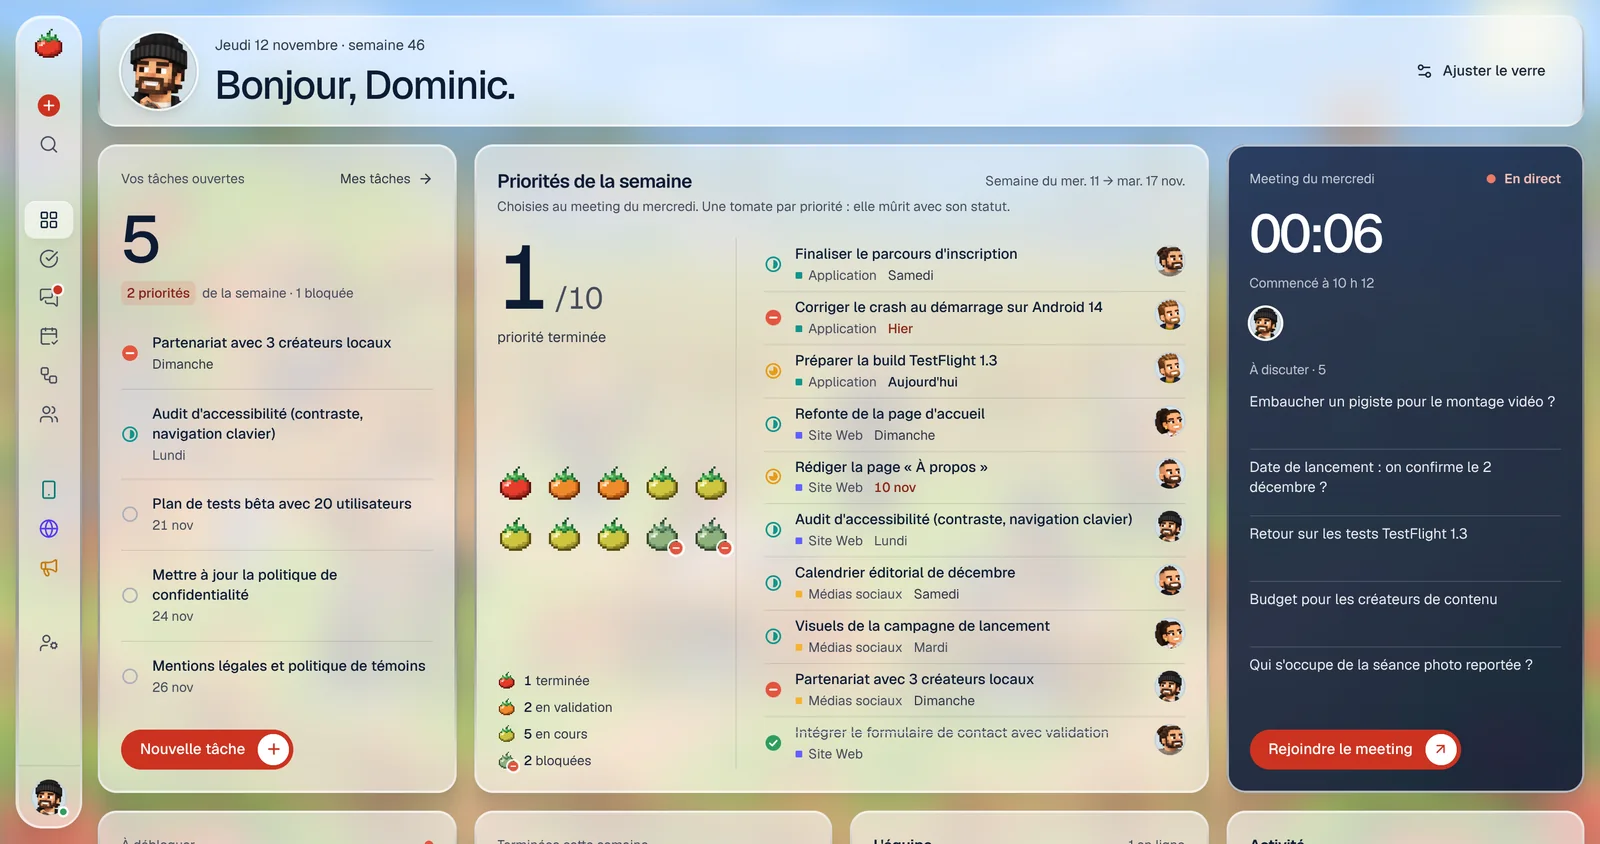
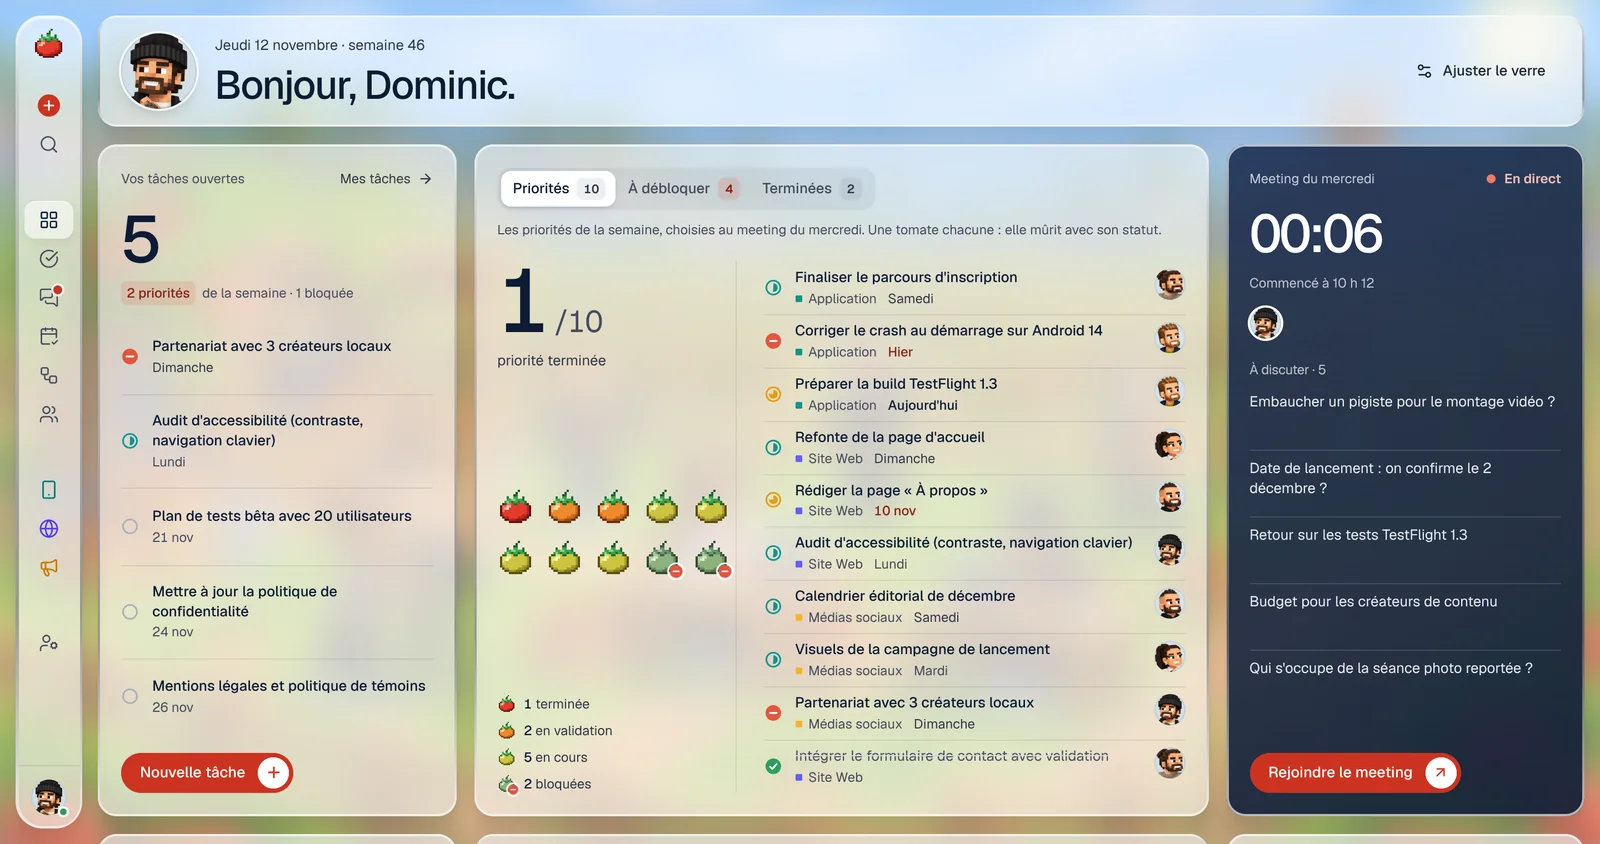
Docs: the week in three tabs, the projects stacked; screenshots retaken
The design document follows the dashboard as it now is: the main tile and its
three views, the row of faces, stacked projects and activity. One picture
added for the two other views of the week. The README follows, with the 45
scenarios.

Claude-Session: https://claude.ai/code/session_01FogaosSJpqDW3pFqCh4GHN

diff --git a/docs/DESIGN.md b/docs/DESIGN.md
@@ -38,25 +38,30 @@ Au repos, la navigation est un rail d'icônes : le contenu a toute la place. On 
 
 ### Dashboard — « où en est-on ? »
 
-Un bento de tuiles de verre posées **directement sur l'image** : pas de feuille derrière elles, jamais de verre sur du verre. Chaque tuile est le verre (son anneau, sa face claire, son ombre) ; la photo, givrée, se voit entre les tuiles comme à travers elles. Le bento occupe toute la zone à côté de la navigation et s'aligne sur elle : même haut, même bas, et le même écart de 14 px que la fenêtre des autres écrans. Sur un écran haut, la rangée des chiffres prend la place qui reste ; sur un écran plus court, le bento défile sous une navigation qui ne bouge pas.
+Un bento de tuiles de verre posées **directement sur l'image** : pas de feuille derrière elles, jamais de verre sur du verre. Chaque tuile est le verre (son anneau, sa face claire, son ombre) ; la photo, givrée, se voit entre les tuiles comme à travers elles. Le bento occupe toute la zone à côté de la navigation et s'aligne sur elle : même haut, même bas, et le même écart de 14 px que la fenêtre des autres écrans. Sur un écran haut, la dernière rangée prend la place qui reste ; sur un écran plus court, le bento défile sous une navigation qui ne bouge pas.
 
-**Chaque tuile a sa forme et sa façon de parler.** Un tableau de bord dont toutes les sections sont la même tuile contenant une liste se lit mal : rien n'y dit par où commencer. Ici, une tuile large au milieu, celle autour de laquelle la page est construite (les priorités de la semaine) ; à sa gauche mes tâches, à sa droite le meeting ; trois tuiles qui sont chacune un grand chiffre ; les visages de l'équipe ; une tuile haute sur le côté (l'activité) ; et une rangée de projets. Quatre colonnes à partir de 1280 px de place, deux en dessous, une sur téléphone.
+**Chaque tuile a sa forme et sa façon de parler.** Un tableau de bord dont toutes les sections sont la même tuile contenant une liste se lit mal : rien n'y dit par où commencer. Ici, trois colonnes de lecture : moi et l'équipe à gauche, la semaine et les projets au milieu (deux fois plus large), le meeting et l'activité à droite. Quatre colonnes de grille à partir de 1280 px de place, deux en dessous, une sur téléphone.
 
 Le bento reste régulier : les tuiles d'une rangée ont la même hauteur, les rangées se suivent sans trou, et aucune tuile n'est à moitié vide. Une tuile remplit la place qu'elle a avec son propre contenu : la liste des priorités donne sa hauteur à sa rangée, et les listes voisines montrent autant de lignes entières qu'il en tient (`.gw-fit`). Les lignes qui n'ont pas la place sont aussi hors du parcours clavier et des lecteurs d'écran.
 
 1. **Salutation** : sur toute la largeur, avec le portrait de la personne, la date et la semaine, et « Ajuster le verre ».
 2. **Vos tâches ouvertes** : un grand chiffre, ce qu'il contient (priorités, retards, blocages), les tâches à prendre en premier (priorités, puis retards, puis ce qui est en cours) et **Nouvelle tâche**, l'action principale de la page.
-3. **Priorités de la semaine** : le score en très grand (« 1/10 »), puis le **potager** : une tomate par priorité, qui mûrit avec son statut (verte à faire, tournante en cours, orangée en validation, rouge terminée ; pâlie et marquée du glyphe « bloqué » quand elle n'avance plus), rangées de la plus mûre à la plus verte, ce qui en fait aussi une barre d'avancement. Chaque tomate est un bouton qui ouvre sa tâche. À côté, la légende et la liste : statut (le glyphe se clique pour le changer), titre, projet, échéance, responsable. Changer un statut dans la liste fait mûrir la tomate.
-4. **Meeting du mercredi** : dans combien de jours, une règle de la semaine (les sept jours qui y mènent, aujourd'hui en tomate, le meeting au bout), les points à discuter, et l'entrée. Pendant un meeting la tuile devient **sombre** (le sombre veut dire « en direct », ici comme sur la page du meeting) et montre l'horloge ; ensuite, « Terminé » et le chemin du récapitulatif.
-5. **À débloquer** : le nombre de tâches bloquées ou en retard dans toute l'équipe (le seul chiffre en rouge de la page : c'est celui qui demande quelque chose), puis les premières, à un clic.
-6. **Terminées cette semaine** : le chiffre, celui de la semaine dernière, et une barre par semaine (de mercredi à mardi) sur six semaines ; la semaine en cours est en teal.
-7. **L'équipe** : un visage, un prénom, le nombre de tâches ouvertes ; un clic ouvre les tâches de la personne.
-8. **Activité** : qui a fait quoi, sur quelle tâche, et quand : un portrait, une phrase, l'heure. C'est la tuile haute sur le côté ; elle montre autant d'événements que sa hauteur le permet.
-9. **Projets** : une tuile par projet, toutes égales, avec son pourcentage et son anneau ; un clic ouvre le projet.
+3. **La semaine de l'équipe**, la tuile autour de laquelle la page est construite. Elle se regarde de trois façons, par **trois onglets** qui portent chacun leur compte (la page les dit donc sans un clic), et chaque vue mène avec son grand chiffre :
+   - **Priorités** : le score en très grand (« 1/10 »), puis le **potager** : une tomate par priorité, qui mûrit avec son statut (verte à faire, tournante en cours, orangée en validation, rouge terminée ; pâlie et marquée du glyphe « bloqué » quand elle n'avance plus), rangées de la plus mûre à la plus verte, ce qui en fait aussi une barre d'avancement. Chaque tomate est un bouton qui ouvre sa tâche. À côté, la légende et la liste : statut (le glyphe se clique pour le changer), titre, projet, échéance, responsable. Changer un statut dans la liste fait mûrir la tomate.
+   - **À débloquer** : le nombre de tâches bloquées ou en retard dans toute l'équipe (le seul chiffre en rouge de la page : c'est celui qui demande quelque chose), ce dont il est fait, et les tâches, à un clic.
+   - **Terminées** : le chiffre de la semaine, celui de la semaine dernière, une barre par semaine (de mercredi à mardi) sur six semaines, la semaine en cours en teal, et ce qui a été terminé.
 
-Les chiffres comptent depuis zéro quand leur tuile arrive, les tomates et les barres se posent l'une après l'autre, les anneaux se dessinent ; rien de tout cela ne bouge avec « moins de mouvement ». Ce que montrent ces dessins existe aussi en mots : chaque tomate porte le titre, le statut et le responsable de sa tâche, chaque barre son compte, chaque anneau « n tâches terminées sur m ».
+   Les trois vues sont posées l'une sur l'autre et une seule se voit : la tuile garde la hauteur de la plus haute, et la page ne saute pas quand on change d'onglet. Sur une tuile étroite (téléphone), elles se suivent. Ces deux dernières vues ont d'abord été des tuiles à part ; réunies ici, elles laissent la page plus calme sans rien retirer.
+4. **Meeting du mercredi** : dans combien de jours, une règle de la semaine (les sept jours qui y mènent, aujourd'hui en tomate, le meeting au bout), les points à discuter, et l'entrée. Pendant un meeting la tuile devient **sombre** (le sombre veut dire « en direct », ici comme sur la page du meeting) et montre l'horloge ; ensuite, « Terminé » et le chemin du récapitulatif.
+5. **L'équipe** : un visage, un prénom, le nombre de tâches ouvertes ; un clic ouvre les tâches de la personne.
+6. **Projets** : une tuile par projet, empilées sous la semaine, avec son pourcentage en grand et une longue barre : l'une sous l'autre, les barres se comparent d'un coup d'œil. Un clic ouvre le projet. Quand la fenêtre est plus étroite, les tuiles passent côte à côte et la barre devient un anneau.
+7. **Activité** : qui a fait quoi, sur quelle tâche, et quand : un portrait, une phrase, l'heure. Elle montre autant d'événements que sa hauteur le permet.
+
+Les chiffres comptent depuis zéro quand leur tuile arrive (et quand on change d'onglet), les tomates et les barres se posent l'une après l'autre, les barres des projets s'allongent ; rien de tout cela ne bouge avec « moins de mouvement ». Ce que montrent ces dessins existe aussi en mots : chaque tomate porte le titre, le statut et le responsable de sa tâche, chaque barre son compte, chaque projet « n tâches terminées sur m ». Les onglets sont de vrais onglets : les flèches passent de l'un à l'autre, et la vue qui n'est pas affichée est hors du parcours clavier et des lecteurs d'écran.
 
 ![Dashboard](screenshots/dashboard.webp)
+
+![Les deux autres vues de la semaine : à débloquer, terminées](screenshots/dashboard-onglets.webp)
 
 ![Le dashboard pendant un meeting : la tuile sombre et son horloge](screenshots/dashboard-en-direct.webp)
 
@@ -216,8 +221,8 @@ Règle technique : deux surfaces qui floutent ce qui est derrière elles ne s'em
 | Encre | `navy-900` | `#0D1B33` | Texte |
 | Gris | `navy-300` à `navy-600` | — | Texte secondaire, icônes, bordures. Peu saturés : le texte secondaire est gris, pas bleu. Sur le verre, le texte secondaire est en `navy-600` (voir « Encre sur verre »). |
 | Papier | `--background` | `#F2F0EB` | Sous les écrans d'erreur, et là où le flou n'est pas pris en charge |
-| Teal | `teal-500` | `#12948C` | L'avancement : la barre de la semaine en cours et les anneaux des projets, sur le dashboard |
-| Tomate | `tomato-600` | `#CC3320` | Le **bouton principal**, partout ; le repère « Nouvelle tâche » de la navigation ; la pastille des priorités de la semaine ; en `tomato-700`, le chiffre « À débloquer » du dashboard |
+| Teal | `teal-500` | `#12948C` | L'avancement : la barre de la semaine en cours et celles des projets, sur le dashboard |
+| Tomate | `tomato-600` | `#CC3320` | Le **bouton principal**, partout ; le repère « Nouvelle tâche » de la navigation ; la pastille des priorités de la semaine ; en `tomato-700`, le chiffre des tâches à débloquer du dashboard |
 | Statuts | teal, jaune, corail, vert | — | Uniquement dans les glyphes de statut, l'étoile des priorités et les alertes (retard, blocage) |
 
 Les couleurs d'identification restent discrètes : une petite icône au trait pour un projet ; pour un membre, son portrait, ou à défaut une pastille pâle avec ses initiales.
@@ -241,7 +246,6 @@ Geist Sans. Chiffres tabulaires pour les compteurs et les dates. Une échelle co
 | Pourcentage d'un projet | 34 – 46 px, 500 |
 | Salutation du dashboard | 26 – 36 px, 500 |
 | Titre du meeting | 22 – 26 px, 600 |
-| Titre de la tuile des priorités | 17 px, 600 |
 | Titre de page, de groupe | 15 px, 600 |
 | Corps, lignes de tâche, contrôles, titres de section | 13 px (14 px dans les formulaires) |
 | Métadonnées | 12 px |
@@ -257,9 +261,10 @@ Geist Sans. Chiffres tabulaires pour les compteurs et les dates. Une échelle co
 - **Avancement** : un filet de 3 px, encre sur gris, dans les listes ; une barre de 5 px, teal sur teal pâle, sur le dashboard (`kit/progress.tsx`).
 - **Grand chiffre** (`dashboard/figure.tsx`) : un par tuile, ce sur quoi l'œil se pose ; sa taille suit la largeur de la tuile (unités de conteneur), et il compte jusqu'à sa valeur.
 - **Potager** (`dashboard/potager.tsx`) : une tomate de 32 px par priorité, cinq par rangée ; au survol elle se soulève et dit son titre.
-- **Barres de la semaine** (`dashboard/weekly-done.tsx`) : six barres, la semaine en cours en teal, les autres en gris ; le compte posé sur chaque barre, la date dessous.
+- **Onglets de la semaine** (`dashboard/week-hero.tsx`) : un groupe de pastilles, l'onglet choisi en blanc ; chacun porte son compte, teinté de tomate quand quelque chose attend derrière.
+- **Barres de la semaine** (`dashboard/week-bars.tsx`) : six barres, la semaine en cours en teal, les autres en gris ; le compte posé sur chaque barre, la date dessous.
 - **Défilement** : seule la fenêtre principale défile.
-- **Mouvement** : les tuiles se posent l'une après l'autre (elles montent de 12 px et deviennent nettes, 480 ms, 45 ms d'écart) ; la coche et l'étoile « rebondissent » une fois ; la carte glissée se soulève ; un message se pose dans le fil. Sur le dashboard, les chiffres comptent depuis zéro (900 ms) quand leur tuile arrive, les tomates et les barres se posent l'une après l'autre, les anneaux se dessinent. Tout est neutralisé avec `prefers-reduced-motion`.
+- **Mouvement** : les tuiles se posent l'une après l'autre (elles montent de 12 px et deviennent nettes, 480 ms, 45 ms d'écart) ; la coche et l'étoile « rebondissent » une fois ; la carte glissée se soulève ; un message se pose dans le fil. Sur le dashboard, les chiffres comptent depuis zéro (900 ms) quand leur tuile arrive ou quand on change d'onglet, les tomates et les barres se posent l'une après l'autre, les barres des projets s'allongent. Tout est neutralisé avec `prefers-reduced-motion`.
 - **Averse de tomates** (`app/tomato-rain.tsx`) : une tâche terminée fait tomber de huit à dix-huit tomates du logo, selon la largeur de l'écran. La largeur est découpée en tranches et chaque tomate tombe dans la sienne : jamais d'amas. Trois tailles (20, 28, 36 px), les petites plus lentes, une légère dérive et une rotation. Elles ne prennent aucun clic, et jusqu'à trois averses se superposent quand on enchaîne.
 - **Arrivée et préchargeur** : à l'ouverture, la scène est seule à l'écran, nette ; ni navigation ni fenêtre. Par-dessus, une petite plaque de verre givré, haut dans le ciel pour ne cacher personne : la tomate y tombe, s'écrase, fait un salto (elle tourne autour d'elle-même, pas autour de sa base), puis alterne petit saut et salto tant que ça charge ; les sauts sont rythmés comme un vrai lancer (vite au départ, lent en haut). Elle reste au moins 3,25 s — la chute et deux tours de saut et de salto : le temps de regarder l'image. Puis la plaque s'en va, l'image reste et se givre (le flou et le voile arrivent en 900 ms), la navigation apparaît en fondu (500 ms) et les tuiles se posent l'une après l'autre. Tout est mesuré en « pixels de tomate » (7 px, 6 px sur téléphone), en CSS pur.
 
@@ -274,7 +279,7 @@ Geist Sans. Chiffres tabulaires pour les compteurs et les dates. Une échelle co
 | `components/auth` | `LoginScreen` (la scène et la carte), `LoginForm` (lien magique, mot de passe) |
 | `components/settings` | Paramètres des administrateurs : tableau des membres, invitation, rôles |
 | `components/tasks` | `TaskLine` (ligne compacte réutilisée partout), `TaskSheet`, menus contextuels, `QuickAdd` |
-| `components/dashboard` | `Panel` (une tuile de verre), `Figure` (le grand chiffre qui compte) et les tuiles : `MyWeek`, `WeekHero` et son `Potager`, `MeetingTile`, `AtRisk`, `WeeklyDone`, `TeamFaces`, `ProjectCards`, `ActivityFeed` |
+| `components/dashboard` | `Panel` (une tuile de verre), `Figure` (le grand chiffre qui compte) et les tuiles : `MyWeek`, `WeekHero` (la semaine en trois onglets, avec son `Potager` et ses `WeekBars`), `MeetingTile`, `TeamFaces`, `ProjectCards`, `ActivityFeed` |
 
 Règle de composition : une information = un composant, réutilisé partout. Le statut d'une tâche a la même apparence dans le tableau, le kanban, le dashboard et le meeting.
 
@@ -298,4 +303,4 @@ Plusieurs briques viennent de composants que l'équipe a choisis comme référen
 
 ### Accessibilité
 
-Navigation complète au clavier, focus visible (anneau teal), libellés pour les boutons-icônes, zones tactiles confortables sur mobile, états jamais portés par la couleur seule (glyphe + libellé). Le bouton de menu annonce son état (`aria-expanded`). La navigation ne dépend pas du survol : au clavier, le rail se parcourt tel quel (chaque entrée garde son nom, et son infobulle au focus) et la tomate, qui est alors un bouton, l'épingle ouverte ; sur un écran tactile, toucher la tomate fait de même. Le fil des messages est une région `log`, la saisie et chaque bouton ont un libellé, et l'averse de tomates est ignorée des lecteurs d'écran. Avec « moins de mouvement », la carte de connexion ne s'incline plus et ses lumières s'éteignent, la pastille de navigation et les infobulles apparaissent sans ressort, la navigation s'ouvre sans glisser, et aucune tomate ne tombe. L'avancement, les barres de la semaine, les anneaux et les tomates du potager ont un équivalent textuel. Sur du verre, le contraste dépend de l'image derrière : il est donc mesuré, pas déduit des couleurs du thème. Chaque morceau de texte est comparé aux pixels réellement derrière lui, sur une capture où le texte est rendu transparent, et c'est le pire endroit du mot qui compte (le 5e centile de ses pixels), pas sa moyenne. Avec les réglages par défaut, sur les huit écrans (623 morceaux de texte par scène), tout dépasse le seuil AA de 4,5:1. Sur la ferme : 8:1 et plus pour le texte principal, 5,2:1 au plus bas pour le texte secondaire. Sur le yacht, plus sombre et servi avec un verre un peu plus plein : 7:1 et 4,9:1. Le blanc sur le bouton tomate est à 5,2:1. `e2e/readability.spec.ts` refait cette mesure à chaque passage des tests, sur quatre écrans et les deux scènes. Le préréglage « Clair » passe sous le seuil pour le texte secondaire : c'est un goût, pas le réglage de lecture. « Opaque » garantit le contraste en toutes circonstances.
+Navigation complète au clavier, focus visible (anneau teal), libellés pour les boutons-icônes, zones tactiles confortables sur mobile, états jamais portés par la couleur seule (glyphe + libellé). Le bouton de menu annonce son état (`aria-expanded`). La navigation ne dépend pas du survol : au clavier, le rail se parcourt tel quel (chaque entrée garde son nom, et son infobulle au focus) et la tomate, qui est alors un bouton, l'épingle ouverte ; sur un écran tactile, toucher la tomate fait de même. Le fil des messages est une région `log`, la saisie et chaque bouton ont un libellé, et l'averse de tomates est ignorée des lecteurs d'écran. Avec « moins de mouvement », la carte de connexion ne s'incline plus et ses lumières s'éteignent, la pastille de navigation et les infobulles apparaissent sans ressort, la navigation s'ouvre sans glisser, et aucune tomate ne tombe. L'avancement des projets, les barres de la semaine et les tomates du potager ont un équivalent textuel. Sur du verre, le contraste dépend de l'image derrière : il est donc mesuré, pas déduit des couleurs du thème. Chaque morceau de texte est comparé aux pixels réellement derrière lui, sur une capture où le texte est rendu transparent, et c'est le pire endroit du mot qui compte (le 5e centile de ses pixels), pas sa moyenne. Avec les réglages par défaut, sur les huit écrans (623 morceaux de texte par scène), tout dépasse le seuil AA de 4,5:1. Sur la ferme : 8:1 et plus pour le texte principal, 5,2:1 au plus bas pour le texte secondaire. Sur le yacht, plus sombre et servi avec un verre un peu plus plein : 7:1 et 4,9:1. Le blanc sur le bouton tomate est à 5,2:1. `e2e/readability.spec.ts` refait cette mesure à chaque passage des tests, sur quatre écrans et les deux scènes. Le préréglage « Clair » passe sous le seuil pour le texte secondaire : c'est un goût, pas le réglage de lecture. « Opaque » garantit le contraste en toutes circonstances.

diff --git a/README.md b/README.md
@@ -8,7 +8,7 @@ Le QG de l'équipe Prospero : nos projets, qui fait quoi, et le **meeting du mer
 
 | | |
 |---|---|
-| **Dashboard** | L'état des projets en 30 secondes, dans un bento de tuiles de verre de formes différentes, posées directement sur l'image, de la même hauteur que la navigation : les priorités de la semaine avec leur score et un potager (une tomate par priorité, qui mûrit avec son statut), de grands chiffres (vos tâches, ce qui est à débloquer, ce qui a été terminé cette semaine), le prochain meeting et ses points à discuter, les visages de l'équipe, l'activité récente, une tuile par projet. |
+| **Dashboard** | L'état des projets en 30 secondes, dans un bento de tuiles de verre de formes différentes, posées directement sur l'image, de la même hauteur que la navigation : au centre, la semaine de l'équipe en trois onglets (les priorités avec leur score et un potager, une tomate par priorité qui mûrit avec son statut ; ce qui est à débloquer ; ce qui a été terminé), autour vos tâches et leur grand chiffre, le prochain meeting et ses points à discuter, les visages de l'équipe, les projets et leurs barres, l'activité récente. |
 | **Projets** | Un tableau structuré (façon Monday) et un kanban (façon Linear) sur les mêmes données : édition en ligne, glisser-déposer, filtres, tri, archivage. |
 | **Tâches** | Responsable, statut, priorité, échéance, description, sous-tâches, commentaires et historique des changements. Une tâche terminée fait tomber une petite averse de tomates. |
 | **Mes tâches** | La vue du matin : mes priorités, en retard, en cours, à venir, complétées récemment. |
@@ -167,7 +167,7 @@ e2e/                        tests Playwright
 
 - `npm run lint`, `npm run typecheck`, `npm run build` : sans erreur ni avertissement.
 - `npm run db:test` : 139 assertions pgTAP (droits, RLS, déclencheurs, invitations, workflows, messagerie).
-- `npm run test:e2e` : 44 scénarios en mode démo — tableau, kanban, filtres et archivage, raccourcis et panneau de tâche, synchronisation entre onglets, meeting complet, workflows, réglages du verre, navigation (survol, épingle, téléphone), connexion, paramètres des membres, messagerie (écrans et règles), portraits, averse de tomates, arrivée sur la scène, bento varié mais régulier posé sur l'image (jamais de verre sur du verre) et aligné sur la navigation, grands chiffres et potager du dashboard, tuile du meeting (compte à rebours, puis horloge en direct), lisibilité du texte sur le verre (contraste mesuré sur les deux scènes).
+- `npm run test:e2e` : 45 scénarios en mode démo — tableau, kanban, filtres et archivage, raccourcis et panneau de tâche, synchronisation entre onglets, meeting complet, workflows, réglages du verre, navigation (survol, épingle, téléphone), connexion, paramètres des membres, messagerie (écrans et règles), portraits, averse de tomates, arrivée sur la scène, bento varié mais régulier posé sur l'image (jamais de verre sur du verre) et aligné sur la navigation, semaine de l'équipe en trois onglets (potager, à débloquer, terminées), grands chiffres du dashboard, tuile du meeting (compte à rebours, puis horloge en direct), lisibilité du texte sur le verre (contraste mesuré sur les deux scènes).
 - Contre une instance Supabase locale : connexion par mot de passe et par lien magique, persistance en base, propagation en temps réel entre deux navigateurs (statut, commentaire, glisser-déposer, meeting en direct, canevas de workflow), présence, compte non invité bloqué puis activé depuis les paramètres, déconnexion ; messagerie à trois comptes (livraison en direct, conversation directe invisible pour un tiers dans l'interface, le temps réel et l'API, lecture persistée, suppression propagée).
 
 ## Limites connues du MVP
